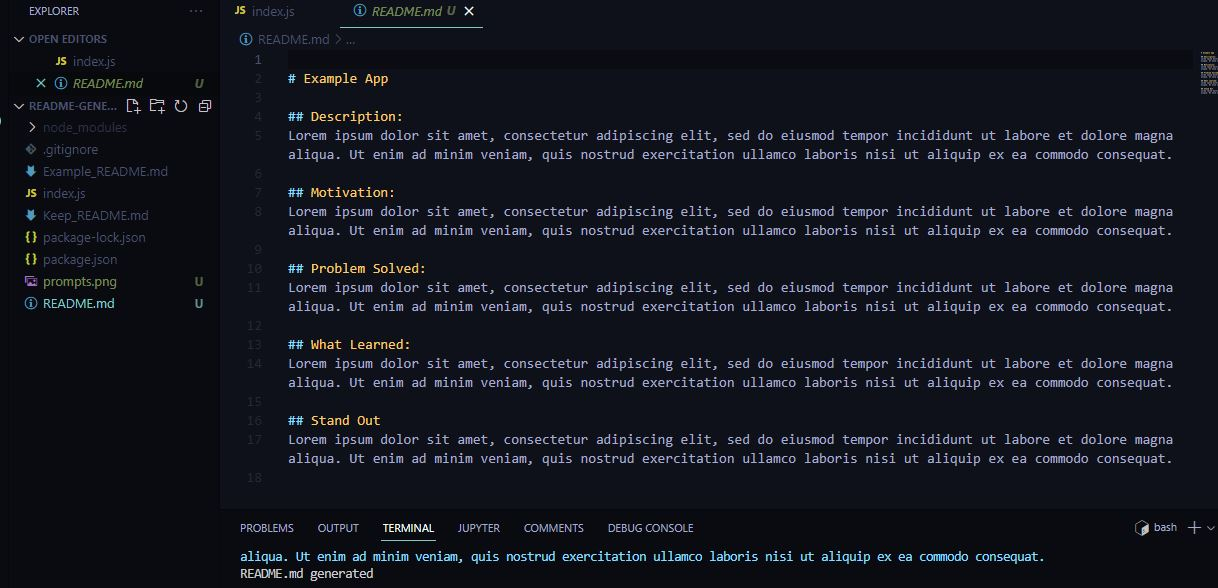
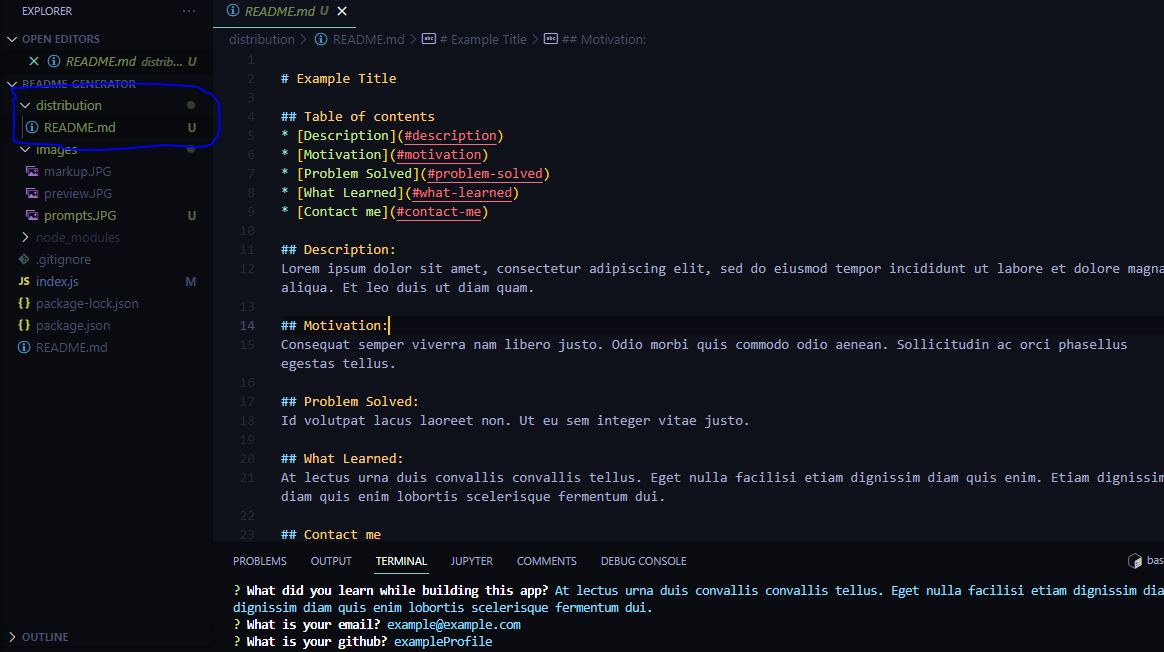
added table of contents and contact links to generated README

diff --git a/index.js b/index.js
@@ -2,10 +2,17 @@ import inquirer from 'inquirer';
 import fs from 'fs';
 
 
-const generateREADME = ({title, description, motivation, problemSolved, whatLearned, standOut}) => 
+const generateREADME = ({title, description, motivation, problemSolved, whatLearned, emailAddress, github}) => 
 
 `
 # ${title}
+
+## Table of contents
+* [Description](#description)
+* [Motivation](#motivation)
+* [Problem Solved](#problem-solved)
+* [What Learned](#what-learned)
+* [Contact me](#contact-me)
 
 ## Description:
 ${description}
@@ -19,8 +26,9 @@ ${problemSolved}
 ## What Learned:
 ${whatLearned}
 
-## Stand Out
-${standOut}
+## Contact me
+* [Email: ${emailAddress}](mailto:${emailAddress}) 
+* [GitHub: ${github}](https://github.com/${github})
 `;
 
 inquirer
@@ -33,7 +41,7 @@ inquirer
     {
         type: 'input',
         name: 'description',
-        message: 'Describe your app.'
+        message: 'Describe your app?'
     },
     {
         type: 'input',
@@ -52,14 +60,19 @@ inquirer
     },
     {
         type: 'input',
-        name: 'standOut',
-        message: 'What makes your app stand out?'
+        name: 'emailAddress',
+        message: 'What is your email?'
+    },
+    {
+        type: 'input',
+        name: 'github',
+        message: 'What is your github?'
     }
     ])
 
     .then((response) => {
         const README = generateREADME(response);
 
-        fs.writeFile('README.md', README, (err) => err ? console.log(err) : console.log('README.md generated'))
+        fs.writeFile('distribution/README.md', README, (err) => err ? console.log(err) : console.log('README.md generated'))
     });
 

diff --git a/distribution/README.md b/distribution/README.md
@@ -1,0 +1,25 @@
+
+# Example Title
+
+## Table of contents
+* [Description](#description)
+* [Motivation](#motivation)
+* [Problem Solved](#problem-solved)
+* [What Learned](#what-learned)
+* [Contact me](#contact-me)
+
+## Description:
+Lorem ipsum dolor sit amet, consectetur adipiscing elit, sed do eiusmod tempor incididunt ut labore et dolore magna aliqua. Et leo duis ut diam quam.
+
+## Motivation:
+Consequat semper viverra nam libero justo. Odio morbi quis commodo odio aenean. Sollicitudin ac orci phasellus egestas tellus. 
+
+## Problem Solved:
+Id volutpat lacus laoreet non. Ut eu sem integer vitae justo. 
+
+## What Learned:
+At lectus urna duis convallis convallis tellus. Eget nulla facilisi etiam dignissim diam quis enim. Etiam dignissim diam quis enim lobortis scelerisque fermentum dui.
+
+## Contact me
+* [Email: example@example.com](mailto:example@example.com) 
+* [GitHub: exampleProfile](https://github.com/exampleProfile)

diff --git a/README.md b/README.md
@@ -7,7 +7,7 @@
 * [Contact me](#contact-me)
 
 ## General info
-This is a node.js README generator.  
+This is a node.js README generator. A generated example README is located in the distribution directory.  
 
 ## Technologies
 Project is created with:
